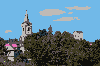
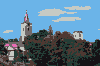
downscale first

diff --git a/libcrate/src/lib.rs b/libcrate/src/lib.rs
@@ -2,6 +2,7 @@ use crate::image_processing::{
     apply_palette, generate_image_palette, get_color_histogram, save_image, scale,
 };
 use anyhow::{Context, Result};
+use image::imageops::FilterType;
 use image::{ImageReader, Rgb, RgbImage};
 use std::collections::HashMap;
 use std::path::Path;
@@ -49,7 +50,7 @@ impl ProcessedImage {
     }
 
     pub fn scale(&mut self, new_width: u32, new_height: u32) {
-        self.data = scale(&self.data, new_width, new_height);
+        self.data = scale(&self.data, new_width, new_height, FilterType::Lanczos3);
     }
 
     pub fn uniform_scale_width(&mut self, new_width: u32) {
@@ -154,8 +155,8 @@ pub mod image_processing {
         new_img
     }
 
-    pub fn scale(img: &RgbImage, new_width: u32, new_height: u32) -> RgbImage {
-        image::imageops::resize(img, new_width, new_height, FilterType::Nearest)
+    pub fn scale(img: &RgbImage, new_width: u32, new_height: u32, filter: FilterType) -> RgbImage {
+        image::imageops::resize(img, new_width, new_height, filter)
     }
 
     pub fn save_palette<P>(path: P, palette: &Palette) -> Result<()>
@@ -390,13 +391,36 @@ mod tests {
     #[test]
     #[ignore]
     fn end_to_end() {
-        let mut image = ProcessedImage::new("./assets/test_img_1.jpg").unwrap();
-        println!("Dimensions: {}x{}", image.width(), image.height());
-        let palette = image.generate_image_palette(10, 8);
-        println!("Palette: {:?}", palette);
-        save_palette("./assets/palette.png", &palette).unwrap();
-        image.apply_palette(&palette);
-        image.uniform_scale_width(100);
-        image.save("./assets/converted1.png").unwrap();
+        let scale_before = true;
+        {
+            let mut image = ProcessedImage::new("./assets/test_img_1.jpg").unwrap();
+            println!("Dimensions: {}x{}", image.width(), image.height());
+            if scale_before {
+                image.uniform_scale_width(100);
+            }
+            let palette = image.generate_image_palette(10, 8);
+            println!("Palette: {:?}", palette);
+            save_palette("./assets/palette1.png", &palette).unwrap();
+            image.apply_palette(&palette);
+            if !scale_before {
+                image.uniform_scale_width(100);
+            }
+            image.save("./assets/converted1.png").unwrap();
+        }
+        {
+            let mut image = ProcessedImage::new("./assets/test_img_2.jpg").unwrap();
+            println!("Dimensions: {}x{}", image.width(), image.height());
+            if scale_before {
+                image.uniform_scale_width(100);
+            }
+            let palette = image.generate_image_palette(10, 8);
+            println!("Palette: {:?}", palette);
+            save_palette("./assets/palette2.png", &palette).unwrap();
+            image.apply_palette(&palette);
+            if !scale_before {
+                image.uniform_scale_width(100);
+            }
+            image.save("./assets/converted2.png").unwrap();
+        }
     }
 }

diff --git a/client/src/main.rs b/client/src/main.rs
@@ -26,7 +26,20 @@ fn main() -> Result<()> {
     }
     println!("Loading image...");
     let mut image = ProcessedImage::new(args.filename)?;
-    println!("Processing image...");
+
+    if config.uniform_scale_by_width {
+        println!("Uniform scaling by width...");
+        image.uniform_scale_width(config.desired_width.unwrap());
+    } else if config.uniform_scale_by_height {
+        println!("Uniform scaling by height...");
+        image.uniform_scale_height(config.desired_height.unwrap());
+    } else {
+        println!("Scaling by width and height...");
+        image.scale(
+            config.desired_width.unwrap(),
+            config.desired_height.unwrap(),
+        );
+    }
 
     let palette = if config.use_custom_palette {
         println!("Using custom palette...");
@@ -46,20 +59,6 @@ fn main() -> Result<()> {
 
     println!("Applying palette...");
     image.apply_palette(&palette);
-
-    if config.uniform_scale_by_width {
-        println!("Uniform scaling by width...");
-        image.uniform_scale_width(config.desired_width.unwrap());
-    } else if config.uniform_scale_by_height {
-        println!("Uniform scaling by height...");
-        image.uniform_scale_height(config.desired_height.unwrap());
-    } else {
-        println!("Scaling by width and height...");
-        image.scale(
-            config.desired_width.unwrap(),
-            config.desired_height.unwrap(),
-        );
-    }
 
     println!("Saving to {}", args.output);
     image.save(&args.output)?;
